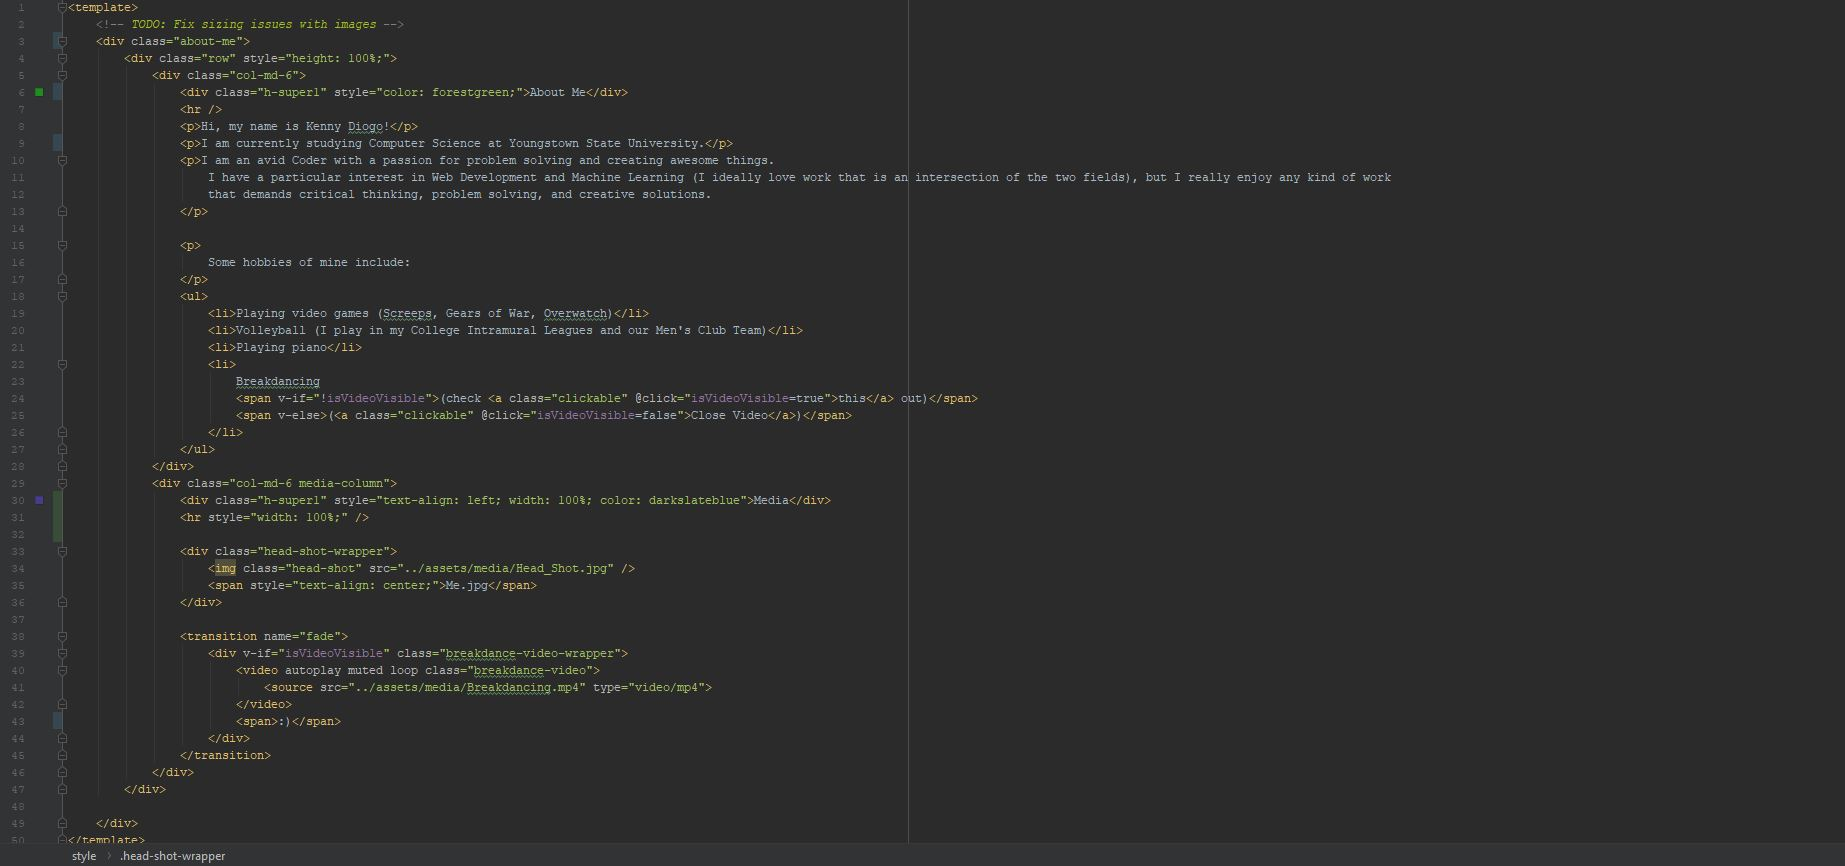
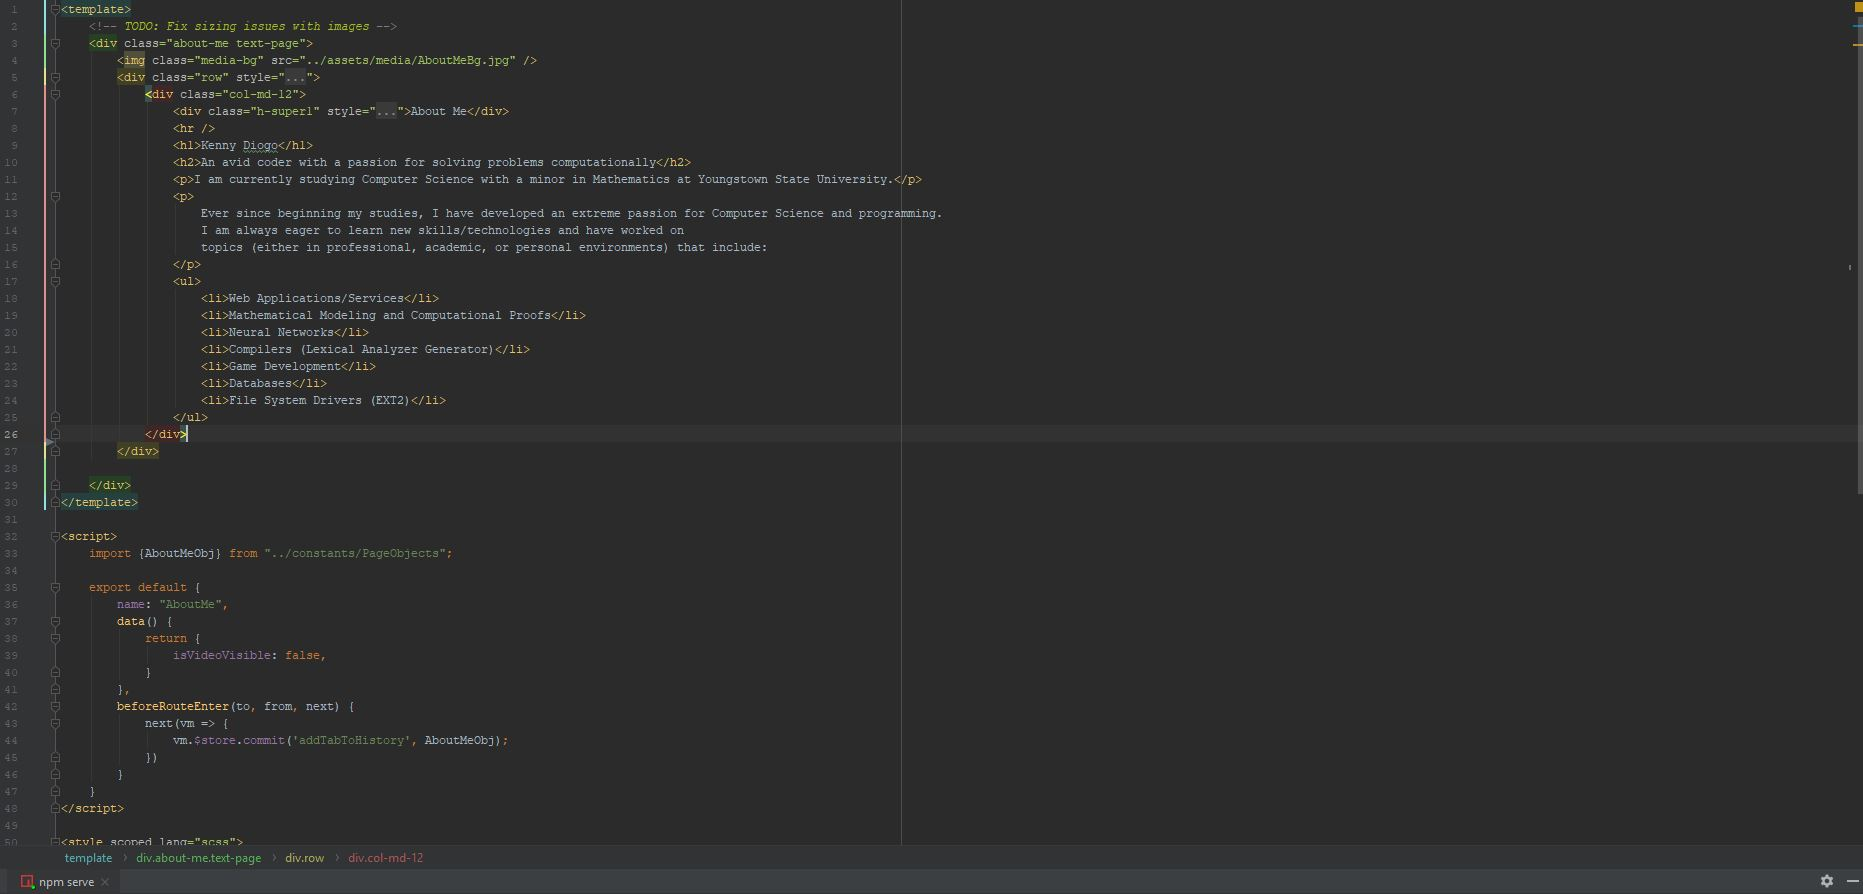
- Added WebGL iframe embed for flappy bird

diff --git a/src/views/Projects/GeneticFB.vue b/src/views/Projects/GeneticFB.vue
@@ -3,7 +3,7 @@
         <div class="d-flex">
             <h1 style="color: forestgreen; margin: 0;">Genetic Flappy Bird</h1>
             <!-- TODO: Create Github Repo and upload code -->
-            <a href="https://github.com/kmdiogo/Genetic-Learning-Flappy-Bird" style="margin-left: auto;">
+            <a class="hover-jump" href="https://github.com/kmdiogo/Genetic-Learning-Flappy-Bird" style="margin-left: auto;">
                 <i class="fab fa-github fa-2x"></i>
             </a>
         </div>
@@ -12,13 +12,17 @@
         <h3 class="m-0">Technologies: Unity, C#</h3>
         <hr style="width: 100%;" />
 
+        <div class="iframe-container">
+            <iframe src="https://kmdiogo.github.io/Genetic-Learning-Flappy-Bird/"></iframe>
+        </div>
+
         <h4>
             This was done as a final project for my AI in Game Design class. I got the original idea
             for this project from <a href="https://www.youtube.com/watch?v=aeWmdojEJf0">Srdjan Susnic</a>.
             The project was implemented in Unity using C#. Below is the presentation video for it made primarily for entertainment purposes.
         </h4>
 
-        <div class="w-100 d-flex justify-content-center">
+        <div class="w-100 d-flex flex-column align-items-center">
             <iframe width="560" height="315"
                     src="https://www.youtube.com/embed/qEXliTFBhHs" frameborder="0"
                     allow="accelerometer; autoplay; encrypted-media; gyroscope; picture-in-picture"
@@ -26,7 +30,6 @@
             </iframe>
         </div>
 
-        <!-- TODO: Consider adding WebGL version of project here -->
 
 
     </div>

diff --git a/src/views/AboutMe.vue b/src/views/AboutMe.vue
@@ -24,24 +24,6 @@
                     <li>File System Drivers (EXT2)</li>
                 </ul>
             </div>
-            <!--<div class="col-md-6 media-column">
-                <div class="h-super1" style="text-align: left; width: 100%; color: darkslateblue">Media</div>
-                <hr style="width: 100%;" />
-
-                <div class="head-shot-wrapper">
-                    <img class="head-shot" src="../assets/media/Head_Shot.jpg" />
-                    <span style="text-align: center;">Me.jpg</span>
-                </div>
-
-                <transition name="fade">
-                    <div v-if="isVideoVisible" class="breakdance-video-wrapper">
-                        <video autoplay muted loop class="breakdance-video">
-                            <source src="../assets/media/Breakdancing.mp4" type="video/mp4">
-                        </video>
-                        <span>:)</span>
-                    </div>
-                </transition>
-            </div>-->
         </div>
 
     </div>

diff --git a/src/components/TheToolbar.vue b/src/components/TheToolbar.vue
@@ -15,8 +15,8 @@
                 </div>
             </div>
             <div class="name-sig" style="margin-left: auto; font-family: 'Cute Font', cursive;">
-                <a href="https://www.linkedin.com/in/kennethdiogo/"><i class="fab fa-linkedin" style="color: #0077b5; margin-right: 5px;"></i></a>
-                <a href="https://github.com/kmdiogo"><i class="fab fa-github-square"></i></a>
+                <a class="hover-jump" href="https://www.linkedin.com/in/kennethdiogo/"><i class="fab fa-linkedin" style="color: #0077b5; margin-right: 5px;"></i></a>
+                <a class="hover-jump" href="https://github.com/kmdiogo"><i class="fab fa-github-square"></i></a>
                 Kenneth Diogo
             </div>
         </div>

diff --git a/src/assets/styles/main.scss b/src/assets/styles/main.scss
@@ -15,6 +15,17 @@ a {
   color: white;
 }
 
+.hover-jump:hover {
+  display: inline-block;
+  animation-name: jump-up-down !important;
+  animation-duration: 0.75s !important;
+  animation-iteration-count: infinite !important;
+}
+
+.router-link {
+  text-decoration: none;
+  color: rgb(220,220,220);
+}
 .router-link:hover {
   cursor: pointer;
   color: darkgray;
@@ -104,6 +115,20 @@ a {
                                   supported by Chrome and Opera */
 }
 
+.iframe-container {
+  overflow: hidden;
+  padding-top: 56.25%;
+  position: relative;
+}
+
+.iframe-container iframe {
+  border: 0;
+  height: 100%;
+  left: 0;
+  position: absolute;
+  top: 0;
+  width: 100%;
+}
 
 
 

diff --git a/src/components/shared/File.vue b/src/components/shared/File.vue
@@ -3,7 +3,7 @@
         <div class="file-icon">
             <i :class="icon" :style="{color: iconColor}"></i>
         </div>
-        <router-link class="router-link" tag="span" :to="to" style="margin-left: 1px;">{{fileName}}</router-link>
+        <router-link class="router-link" :to="to" style="margin-left: 1px;">{{fileName}}</router-link>
         <div v-if="isTab" style="margin-left: 5px;">
             <i class="far fa-window-close close-icon" @click="$store.commit('removeTabFromHistory', label)"></i>
         </div>

diff --git a/src/views/Projects/LAG.vue b/src/views/Projects/LAG.vue
@@ -2,7 +2,7 @@
     <div class="text-page d-flex flex-column">
         <div class="d-flex">
             <h1 style="color: forestgreen; margin: 0;">Lexical Analyzer Generator</h1>
-            <a href="https://github.com/kmdiogo/LAG" style="margin-left: auto;">
+            <a class="hover-jump" href="https://github.com/kmdiogo/LAG" style="margin-left: auto;">
                 <i class="fab fa-github fa-2x"></i>
             </a>
         </div>

diff --git a/src/views/Projects/Trivialize.vue b/src/views/Projects/Trivialize.vue
@@ -4,7 +4,7 @@
             <h1 style="color: forestgreen; margin: 0;">
                 Trivialize!
             </h1>
-            <a href="https://github.com/kmdiogo/Trivialize" style="margin-left: auto;">
+            <a class="hover-jump" href="https://github.com/kmdiogo/Trivialize" style="margin-left: auto;">
                 <i class="fab fa-github fa-2x"></i>
             </a>
         </div>

diff --git a/src/components/TheTerminal.vue b/src/components/TheTerminal.vue
@@ -52,6 +52,7 @@
                     this.history.push(`Unknown command '${this.parsed[0]}'`);
                 }
                 this.line = '';
+                this.history.push('<br />');
                 setTimeout(function() {
                     let element = document.getElementById('inner-terminal');
                     element.scrollTop = element.scrollHeight;

diff --git a/src/assets/styles/transitions-and-animations.scss b/src/assets/styles/transitions-and-animations.scss
@@ -9,3 +9,8 @@
   50% {transform: translateX(10px)}
   100% {transform: translateX(0px)}
 }
+
+@keyframes jump-up-down {
+  50% {transform: translateY(-3px)}
+  100% {transform: translateY(0px)}
+}

diff --git a/src/router.js b/src/router.js
@@ -24,7 +24,7 @@ import {
 Vue.use(Router);
 
 export default new Router({
-  mode: 'history',
+  //mode: 'history',
   base: process.env.BASE_URL,
   routes: [
     {
